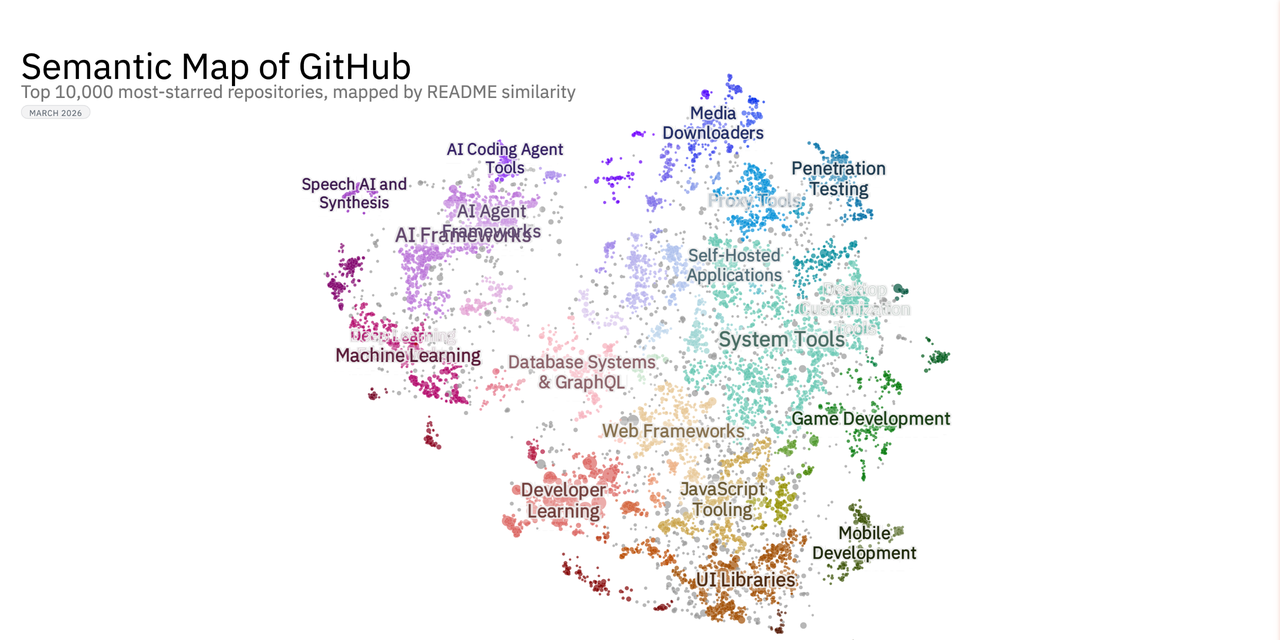
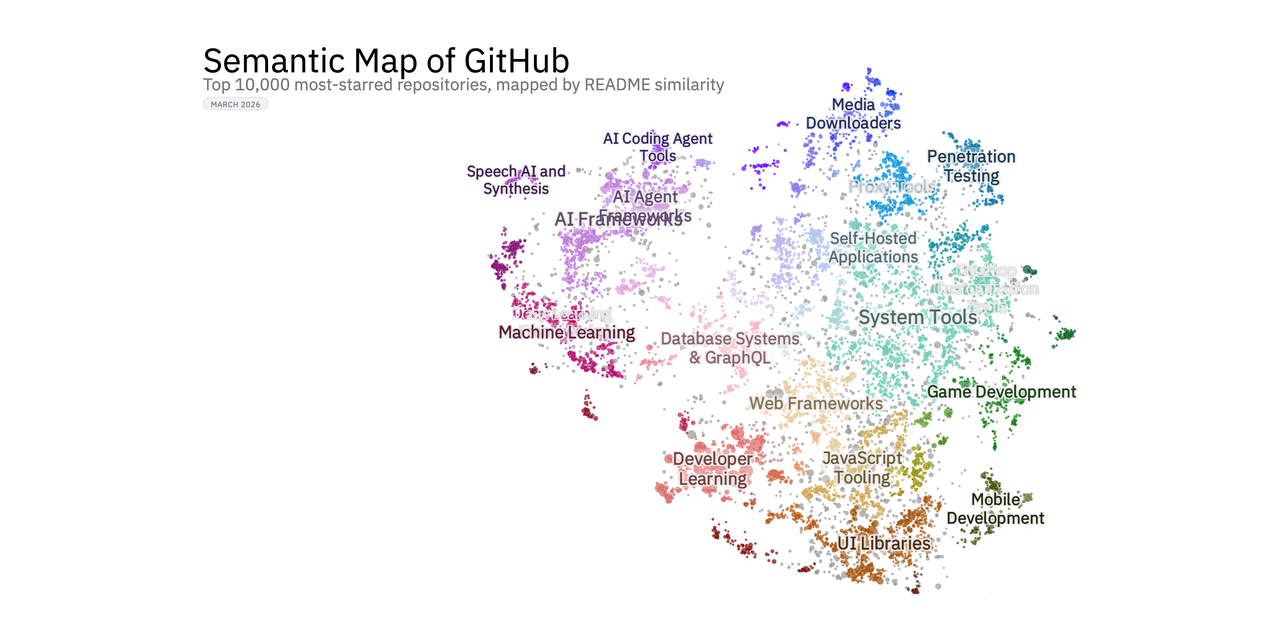
Add 40px safe border to social preview and remove duplicate file
- Regenerate docs/social-preview.png with 40px border on all sides per
  GitHub's repo card template guidelines (keeps content in safe zone)
- Remove assets/social-preview.png (duplicate of docs/ copy)
- Remove copy logic from _copy_for_docs() since docs/social-preview.png
  is now the sole copy, managed directly like docs/methodology.html

Changed region(s): [[0.0, 0.0625, 0.8438, 1.0], [0.3125, 0.6562, 0.3438, 0.7188], [0.8125, 0.5, 0.8438, 0.5312]]

diff --git a/pipeline/07_visualize.py b/pipeline/07_visualize.py
@@ -1323,13 +1323,6 @@ def _copy_for_docs(src_html_path, dest_html_path):
     html = html.replace('href="github_map.html"', 'href="index.html"')
     Path(dest_html_path).write_text(html)
 
-    # Copy social preview image to docs/ for GitHub Pages OG tags
-    social_preview_src = Path("assets/social-preview.png")
-    if social_preview_src.exists():
-        import shutil
-
-        shutil.copy2(social_preview_src, Path(dest_html_path).parent / "social-preview.png")
-
 
 def _inject_nav(html_path):
     """Add site navigation bar to DataMapPlot-generated HTML."""
